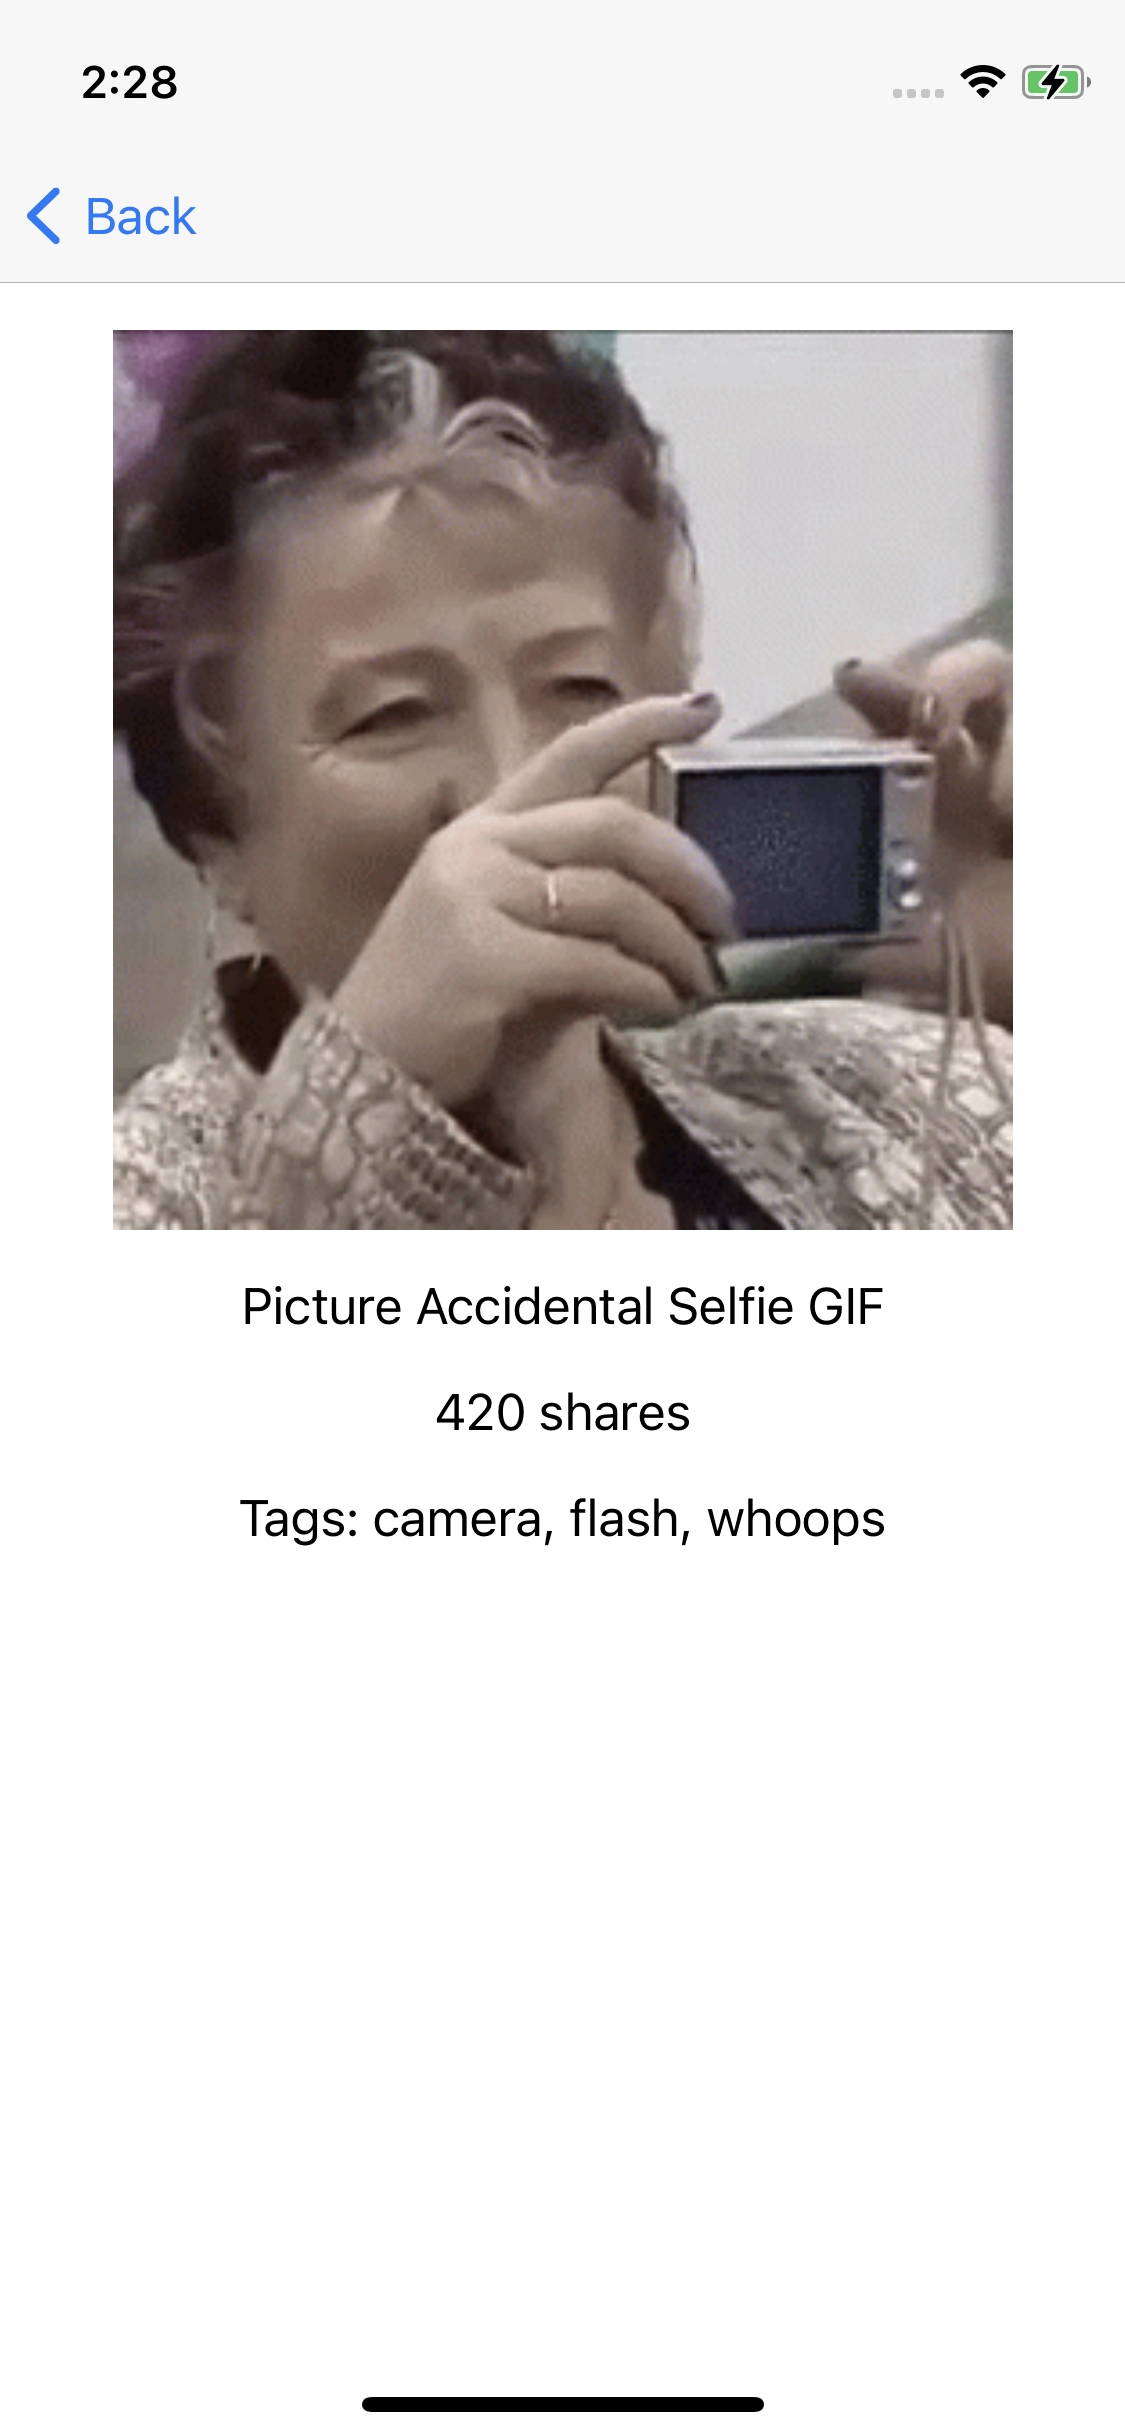
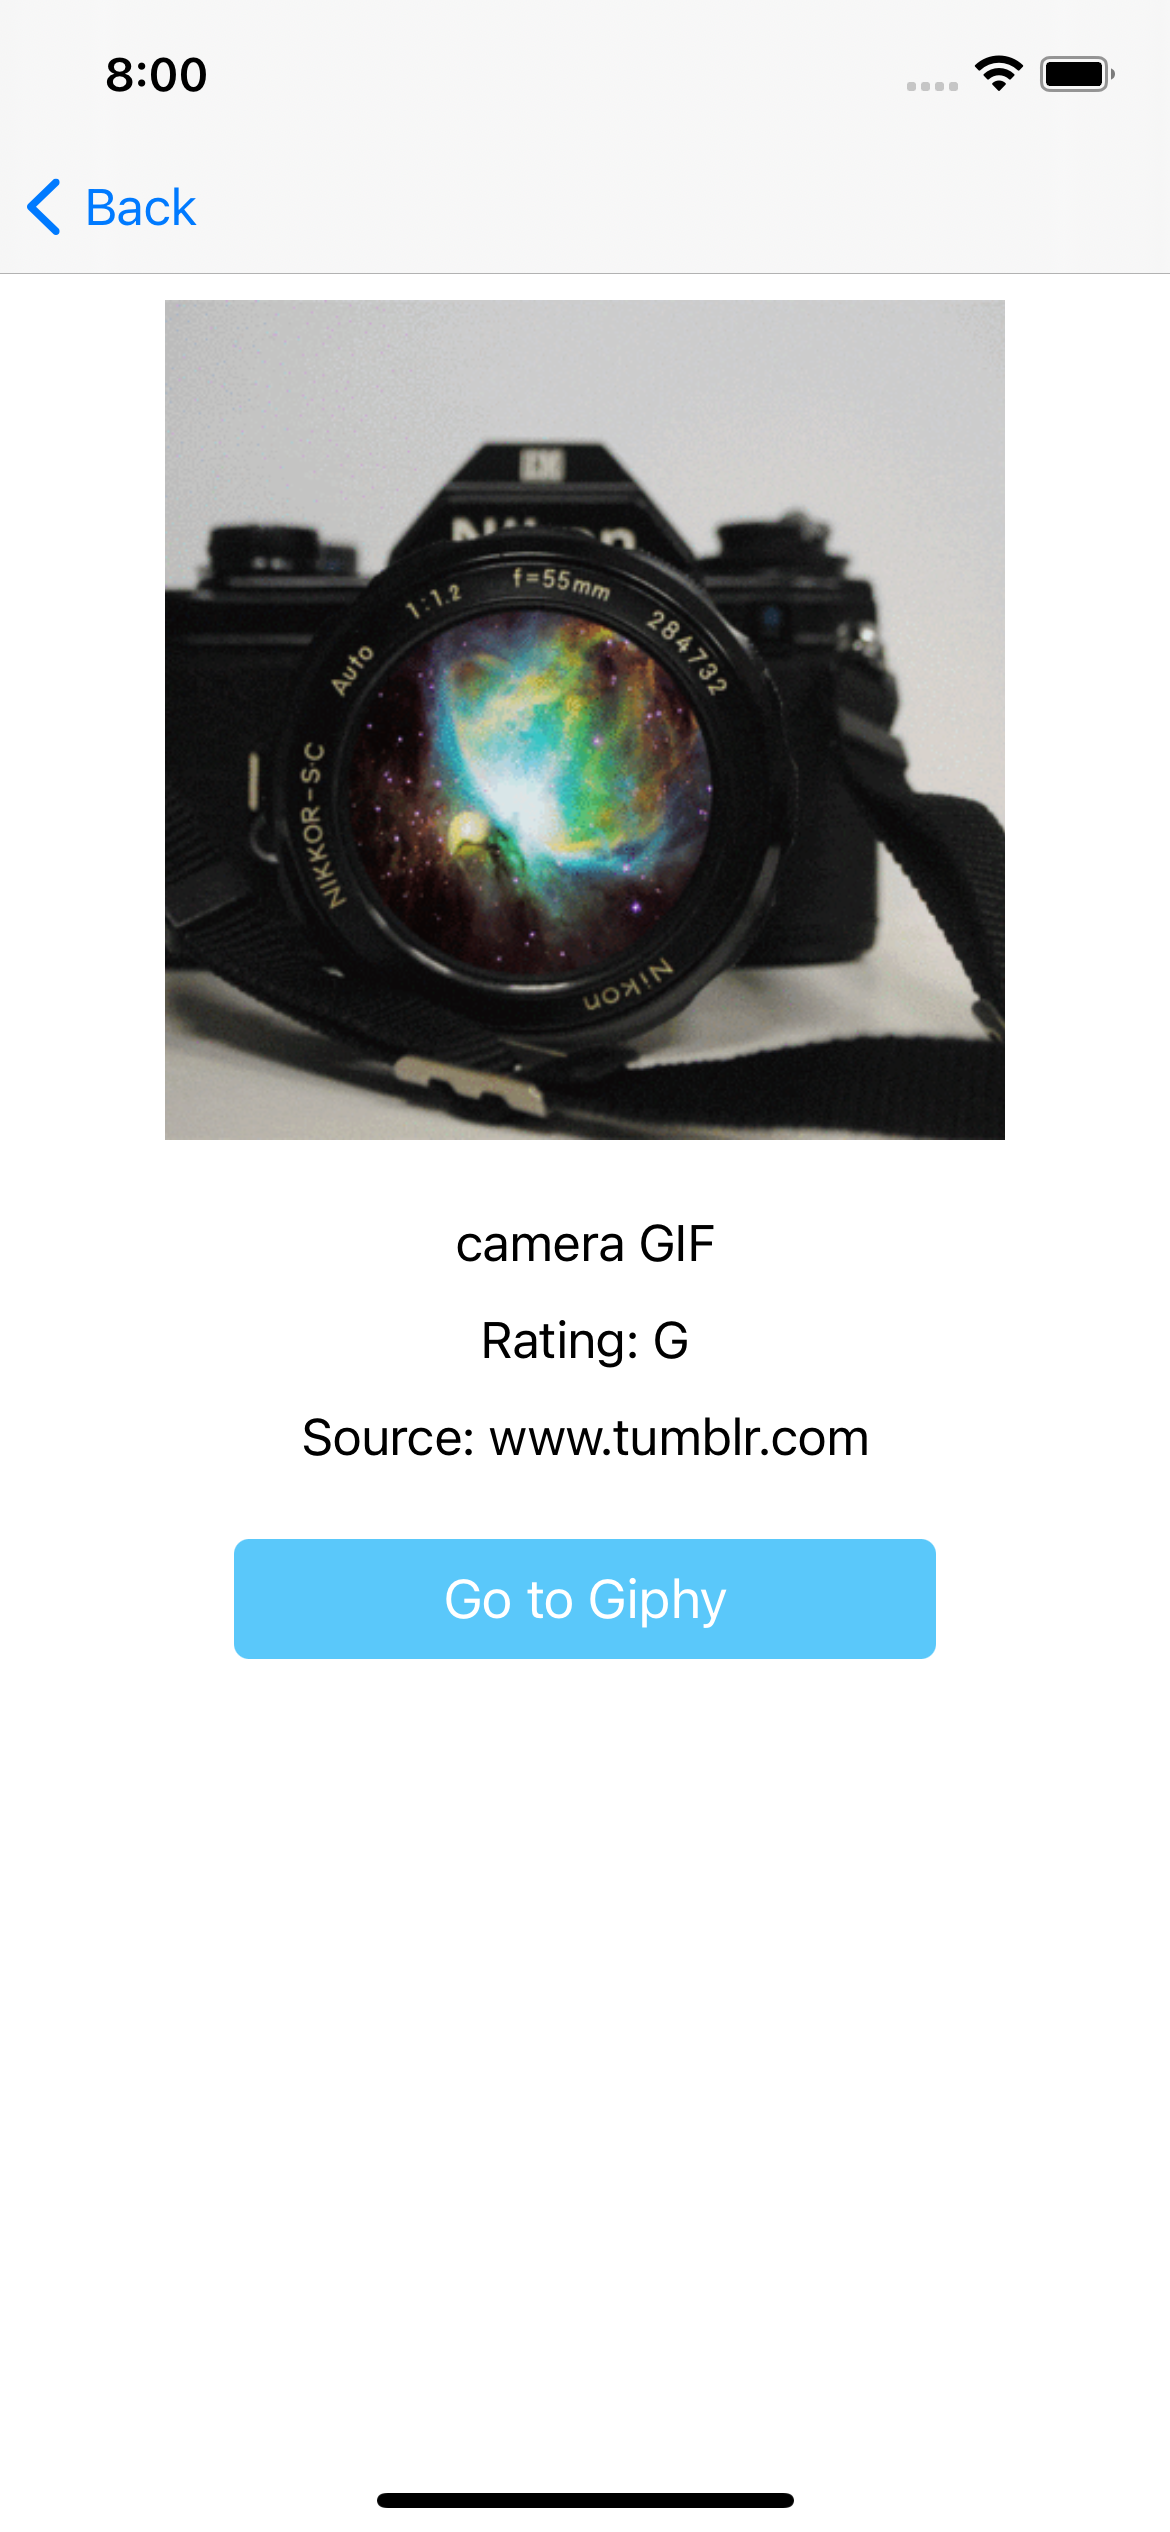
update readme and screenshots

diff --git a/README.md b/README.md
@@ -1,41 +1,24 @@
-# iOS Take Home
+# Giphy Explorer
 
-Create an iOS app with two views, `MainViewController` and `DetailViewController`. The `MainViewController` contains a list of GIFs from the [Giphy API](https://developers.giphy.com/).
+A Simple app in list view that allows you to browse and search Giphy. Data is fetched from the [Giphy API](https://developers.giphy.com/).
 
-When there is no query, the view should display the featured gifs. When there is a query, it should display the search results from the API.
+## Tech Stack
+The app uses Combine framework and SnapLKit to layout views.
 
-Tapping on a cell should push the `DetailViewController`. When the `DetailViewController` loads, it should request information from the API like title, source tld, and rating, and display it. This data must be requested from `DetailViewController`, not passed from the previous view controller (only pass the gif ID, then request data from the API again).
 
-As much as possible, stick to the Combine ViewModel structure implemented in the `MainViewController`. The `DetailViewController` should use a similar system for loading additional information from the API.
+## Functionalities
+When there is no query, the view displays the featured gifs. When there is a query, it displays the search results from the API.
 
-You shouldn't need to use any additional dependencies.
+Tapping on a cell goes the Detail View of a Giphy, which requests and displays detailed information includes
+-  title, 
+- rating
+- source tld
+- a button that opens web browser to the Giphy page
 
-And while not required, feel free to add additional flourishes or features! (For example, opening Safari to the Giphy page for that gif from a button on the detail page, or using modern UIKit APIs)
 
-## Setup
-
-Get an API key [here](https://developers.giphy.com/dashboard/) and put it into `Constants.swift`
-
-## Evaluation
-
-### What you will be evaluated on
-
-- Functionality - can you translate the requirements into working code
-- Following modern best practices
-- Usage of Combine
-- Usage of SnapKit for laying out views
-
-### What you will not be evaluated on
-
-- Testing
-- Styling of views outside of functionality
-
-## Submission Instructions
-
-Create a public GitHub repository. Share this GitHub URL with your point of contact.
+## Screenshots
 
 ![Main View](assets/main-view.png)
 
 ![Detail View](assets/detail-view.png)
 
-Note: The data displayed here is for demonstration purposes. You should display any data possible from the Giphy API that you can on the detail view.
